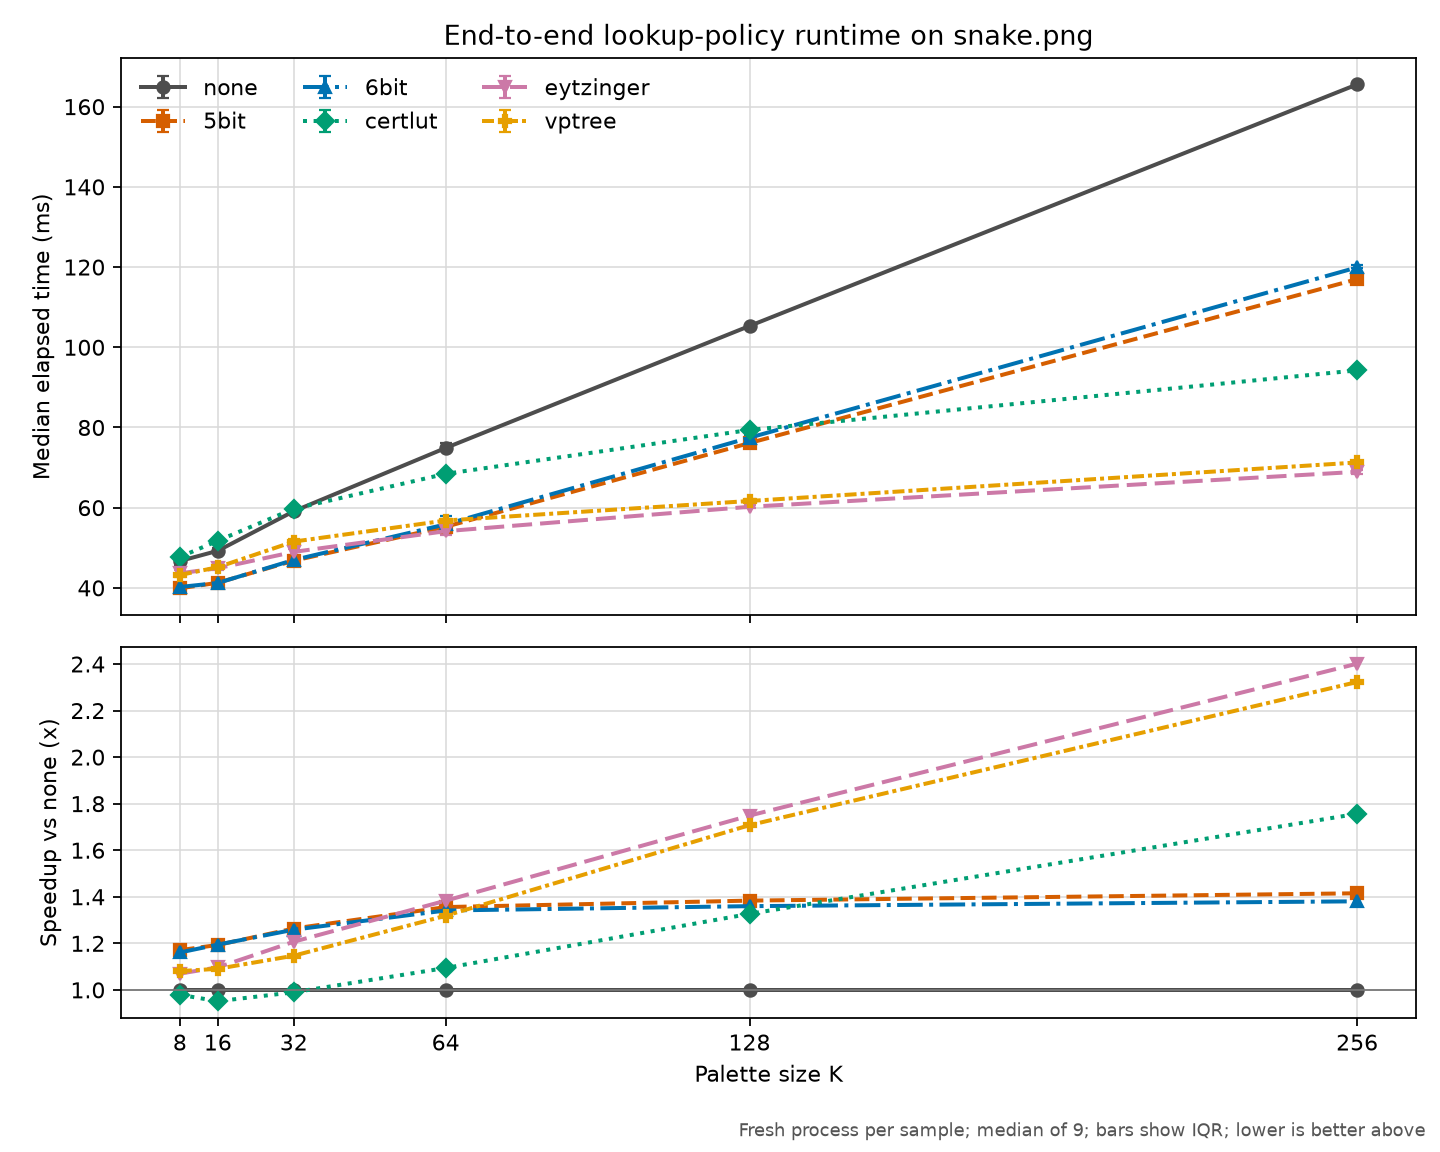
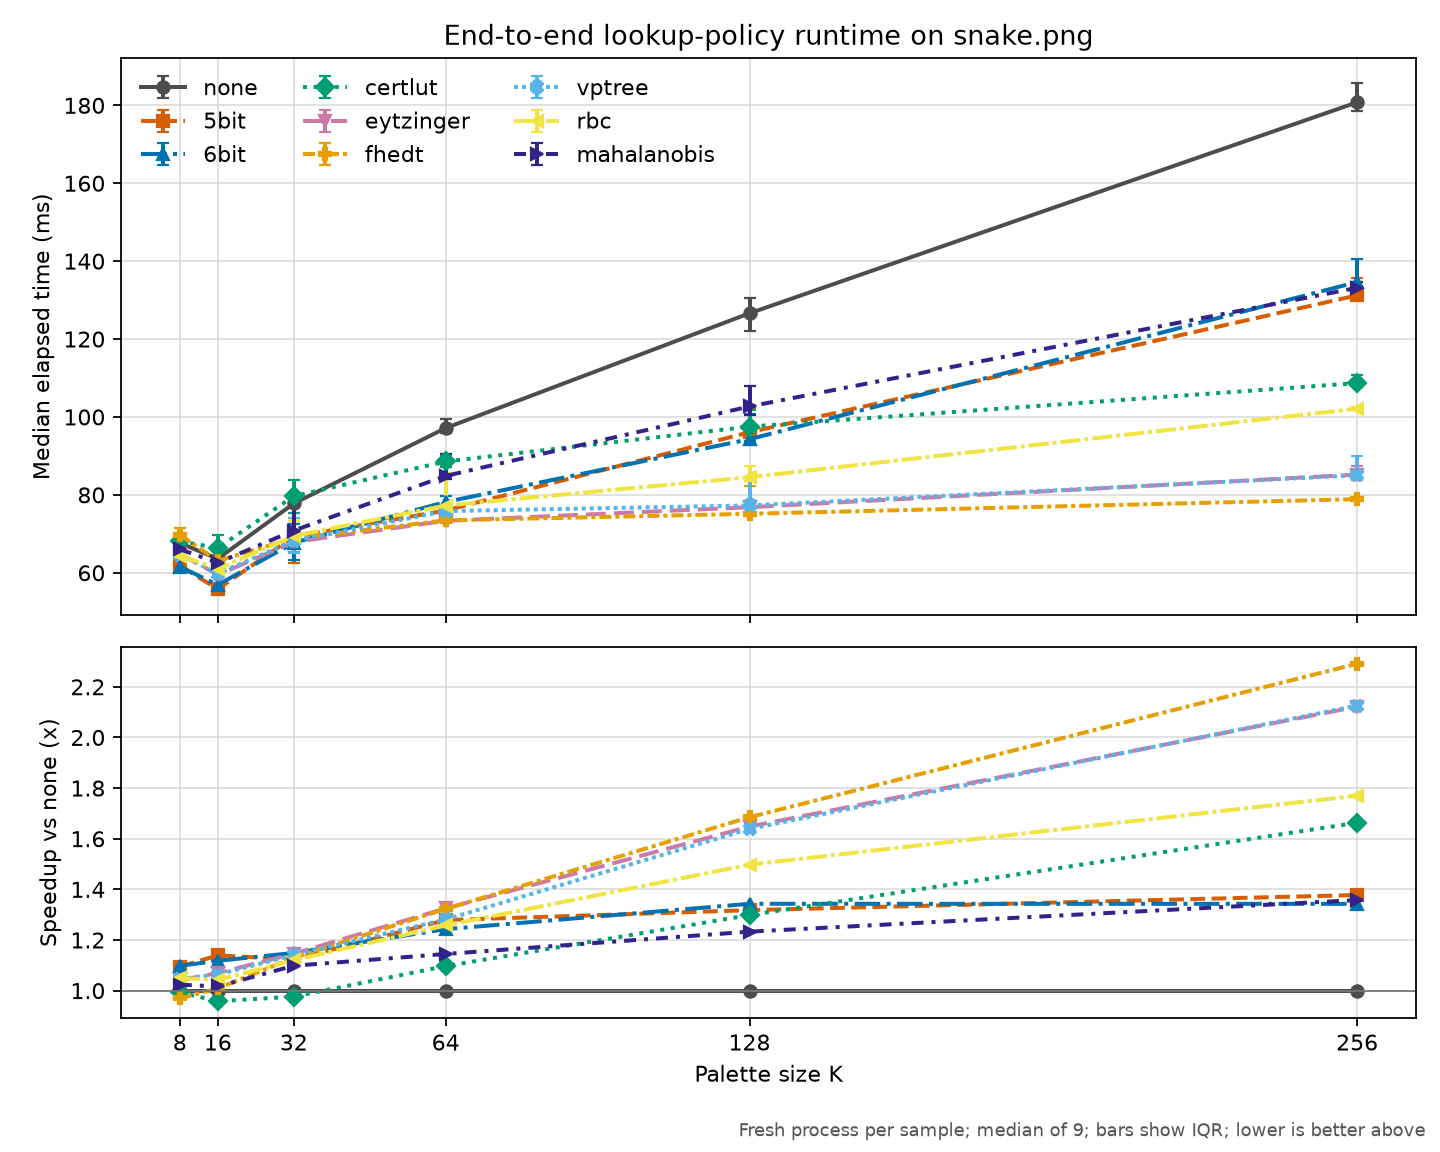
docs: benchmark all lookup policies

Changed region(s): [[0.0312, 0.0625, 0.9688, 0.5312], [0.0312, 0.5625, 0.9688, 0.875]]

diff --git a/tools/plot_lookup_policy_speed.py b/tools/plot_lookup_policy_speed.py
@@ -29,7 +29,9 @@ from matplotlib import ticker
 
 
 DEFAULT_COLORS = "8,16,32,64,128,256"
-DEFAULT_POLICIES = "none,5bit,6bit,certlut,eytzinger,vptree"
+DEFAULT_POLICIES = (
+    "none,5bit,6bit,certlut,eytzinger,fhedt,vptree,rbc,mahalanobis"
+)
 
 # The Okabe-Ito palette is combined with markers and line styles so the figure
 # remains legible with common color-vision deficiencies and in monochrome.
@@ -40,9 +42,22 @@ PLOT_COLORS = (
     "#009E73",
     "#CC79A7",
     "#E69F00",
+    "#56B4E9",
+    "#F0E442",
+    "#332288",
 )
-PLOT_MARKERS = ("o", "s", "^", "D", "v", "P")
-PLOT_LINESTYLES = ("-", "--", "-.", ":", (0, (5, 2)), (0, (3, 1, 1, 1)))
+PLOT_MARKERS = ("o", "s", "^", "D", "v", "P", "X", "<", ">")
+PLOT_LINESTYLES = (
+    "-",
+    "--",
+    "-.",
+    ":",
+    (0, (5, 2)),
+    (0, (3, 1, 1, 1)),
+    (0, (1, 1)),
+    (0, (5, 1, 1, 1)),
+    (0, (3, 2, 1, 2)),
+)
 
 
 def parse_csv_strings(raw: str) -> List[str]:

diff --git a/docs/functionality/lookup-policy.md b/docs/functionality/lookup-policy.md
@@ -1657,12 +1657,15 @@ At `K = 256`, the result is:
 
 | Policy | Median time | Speedup over `none` |
 | --- | ---: | ---: |
-| `none` | 165.6 ms | 1.00x |
-| `5bit` | 117.0 ms | 1.42x |
-| `6bit` | 119.9 ms | 1.38x |
-| `certlut` | 94.3 ms | 1.76x |
-| `eytzinger` | 68.9 ms | 2.40x |
-| `vptree` | 71.3 ms | 2.32x |
+| `none` | 180.8 ms | 1.00x |
+| `5bit` | 131.2 ms | 1.38x |
+| `6bit` | 134.6 ms | 1.34x |
+| `certlut` | 108.7 ms | 1.66x |
+| `eytzinger` | 85.2 ms | 2.12x |
+| `fhedt` | 78.9 ms | 2.29x |
+| `vptree` | 85.0 ms | 2.13x |
+| `rbc` | 102.1 ms | 1.77x |
+| `mahalanobis` | 133.2 ms | 1.36x |
 
 This confirms a real speed/accuracy tradeoff between `6bit` and `none` on the
 fixture. It does not show that `6bit` is the best current default: both the
@@ -1671,10 +1674,19 @@ policies must be considered. Dense `5bit` and `6bit` tables also pay fixed
 initialization and cold-bucket costs, so their relative position changes with
 `K`, image size, cache reuse, and traversal order.
 
+The shallow `fhedt` curve is particularly informative. From `K = 16` through
+`K = 256`, its median rises from 63.0 ms to 78.9 ms, while `5bit` and `6bit`
+rise to 131.2 ms and 134.6 ms. This is consistent with `fhedt` paying for its
+fixed-resolution grid and then applying it in constant time per pixel, whereas
+each previously unseen `5bit` or `6bit` bucket still scans `K` palette entries.
+The figure remains an end-to-end measurement, however, so it cannot assign
+the entire difference to lookup without a component-level benchmark.
+
 ### Measurement design
 
-The curves were measured on 2026-09-03 from a clean Autotools build of revision
-`31e211cd3` on Darwin 25.5.0 arm64. The input was
+The quality curves were measured on 2026-09-03 from a clean Autotools build of
+revision `31e211cd3`. The speed curve was regenerated from revision
+`11b792bfe`. Both runs used Darwin 25.5.0 arm64. The input was
 [`images/snake.png`](../../images/snake.png). The broad curves use
 `K = 8, 16, 32, 64, 128, 256`; the focused curve uses steps of 16 from 128
 through 256.
